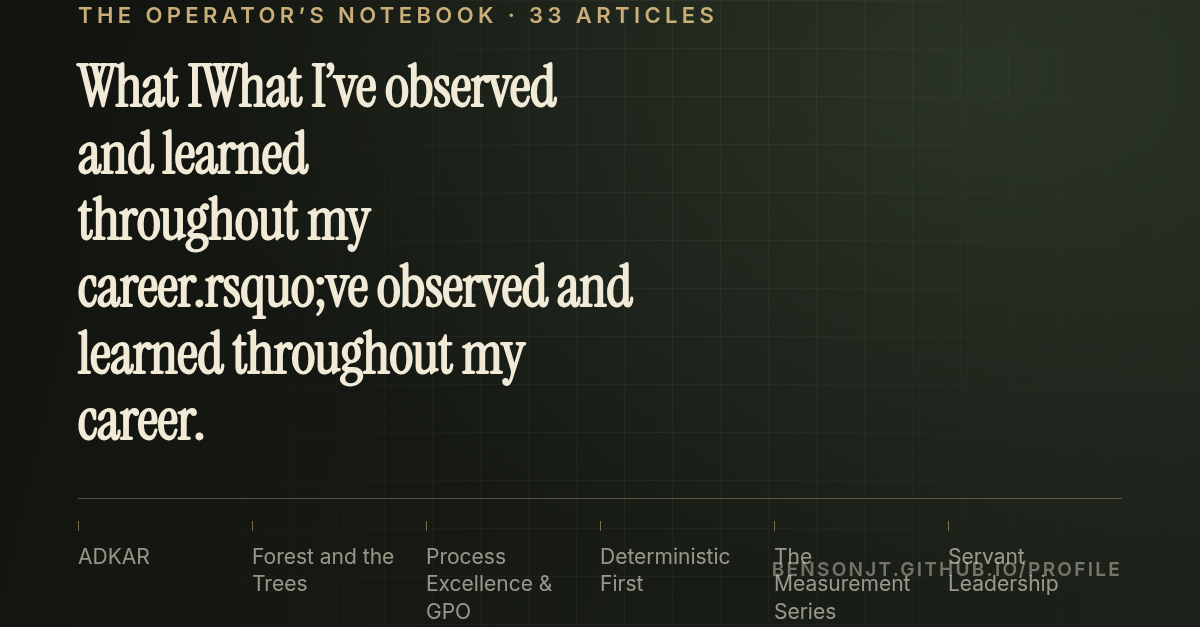
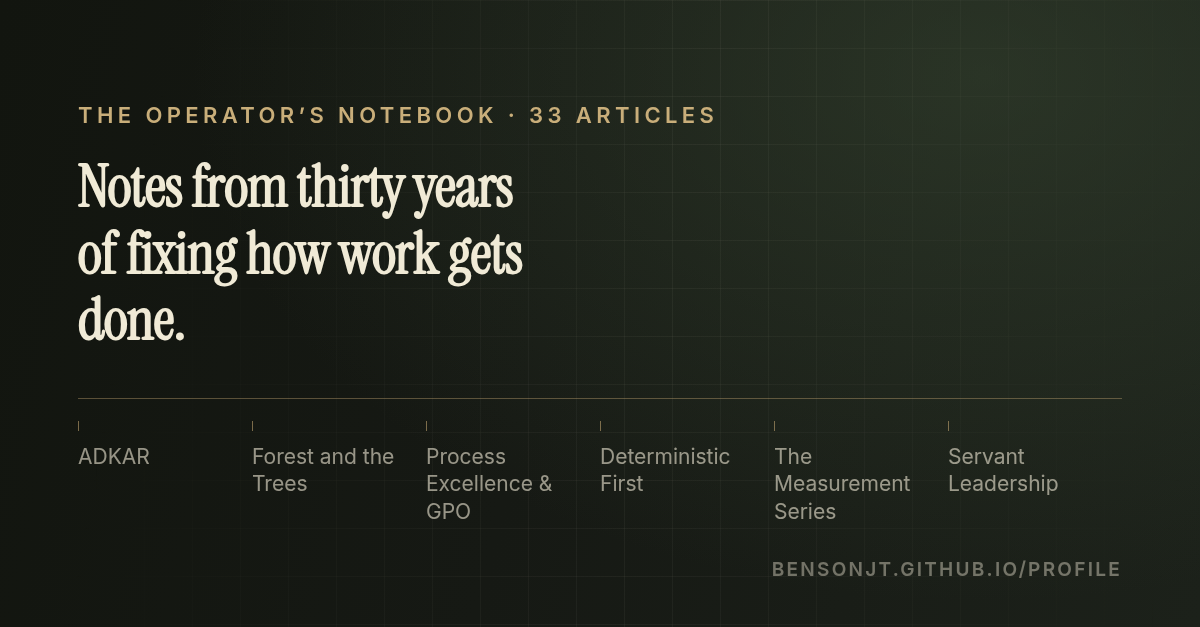
Articles card: fix garbled headline

diff --git a/tools/li-card.html b/tools/li-card.html
@@ -213,7 +213,7 @@
                 },
                 articles: {
                     eyebrow: "The Operator&rsquo;s Notebook &middot; 33 articles",
-                    headline: "What IWhat I&rsquo;ve observed and learned<br>throughout my career.rsquo;ve observed and learned throughout my career.",
+                    headline: "Notes from thirty years<br>of fixing how work gets done.",
                     strip: [
                         "ADKAR",
                         "Forest and the Trees",
